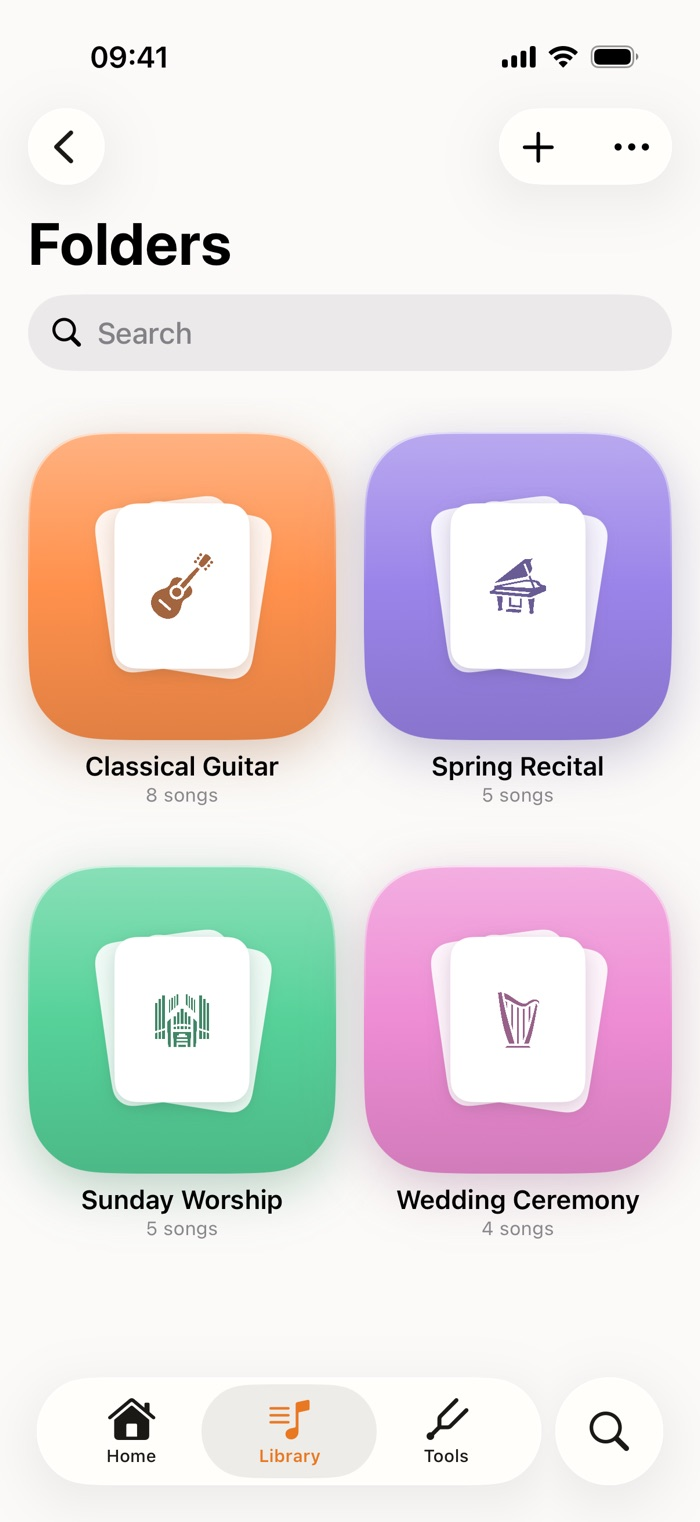
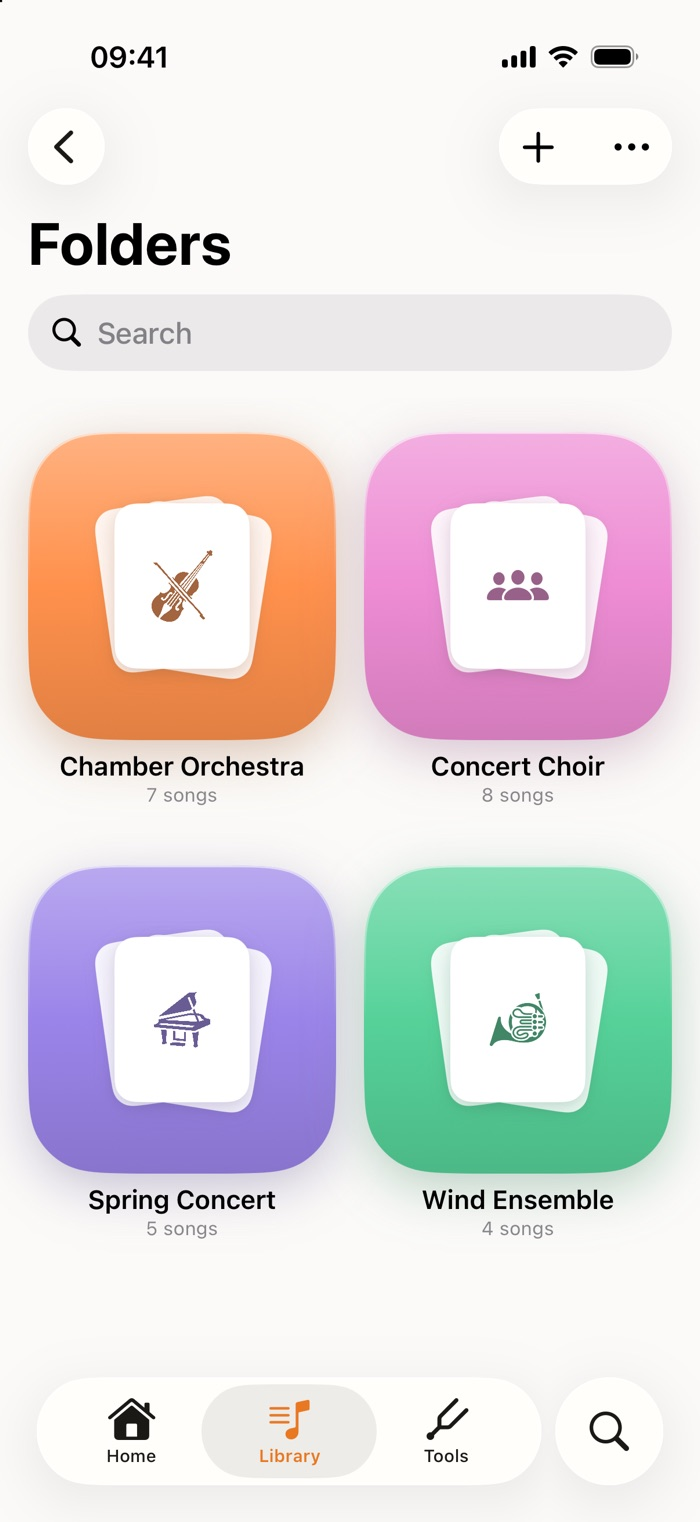
Real Folders capture for orchestras and choirs; screenshots no longer trimmed at the sides
- Orchestras & Choirs 'A library organized your way': a fresh iPhone 17 Pro capture of the
  demo library with Chamber Orchestra (violin), Concert Choir (ensemble), Spring Concert and
  Wind Ensemble folders (temporary seed; simulator data restored afterwards).
- The phone and tablet frames are a little wider than the screenshots, so object-fit trimmed
  ~2 % off each side and the content touched the bezel. The new iPhone/iPad collaboration and
  folders images use the existing .fit frames; the home stage gets a .frame .device.tablet.fit
  rule with the 11-inch screenshot's shape. site.css v53 on every page.

diff --git a/for/orchestras-choirs.html b/for/orchestras-choirs.html
@@ -121,7 +121,7 @@
   ]
 }
 </script>
-<link rel="stylesheet" href="/assets/site.css?v=52">
+<link rel="stylesheet" href="/assets/site.css?v=53">
 <link rel="stylesheet" href="/assets/pages.css?v=24">
 </head>
 <body>
@@ -223,13 +223,13 @@
       <div class="rf-visual"><div class="device phone fit"><div class="screen shot"><img src="/assets/setlist-iphone.jpg?v=1" alt="A set list called Orchestra Concert in Music Folder on iPhone: six pieces in performance order, each with composer and tempo" width="700" height="1522" loading="lazy"></div></div></div>
     </div><div class="row-feature flip">
       <div class="rf-text"><h2 class="heading-sm">A library organized <em>your way.</em></h2><p>Keep your music in folders by ensemble, season or genre. Share a folder and the whole choir has the season's repertoire, with every new piece added for everyone.</p><ul class="rf-points"><li><svg viewBox="0 0 16 16" fill="none" stroke="currentColor" stroke-width="1.9" stroke-linecap="round" stroke-linejoin="round" aria-hidden="true"><path d="M3 8.5l3 3 7-7"/></svg><span>Folders by ensemble, season or genre</span></li><li><svg viewBox="0 0 16 16" fill="none" stroke="currentColor" stroke-width="1.9" stroke-linecap="round" stroke-linejoin="round" aria-hidden="true"><path d="M3 8.5l3 3 7-7"/></svg><span>Share a folder, or send a one-time copy</span></li><li><svg viewBox="0 0 16 16" fill="none" stroke="currentColor" stroke-width="1.9" stroke-linecap="round" stroke-linejoin="round" aria-hidden="true"><path d="M3 8.5l3 3 7-7"/></svg><span>Tags and search to find any piece</span></li></ul></div>
-      <div class="rf-visual"><div class="device phone"><div class="screen shot"><img src="/assets/folders-iphone.jpg?v=1" alt="The Folders screen in Music Folder on iPhone: four folders, Classical Guitar, Spring Recital, Sunday Worship and Wedding Ceremony, each with its song count" width="700" height="1522" loading="lazy"></div></div></div>
+      <div class="rf-visual"><div class="device phone fit"><div class="screen shot"><img src="/assets/folders-iphone.jpg?v=2" alt="The Folders screen in Music Folder on iPhone: four folders, Chamber Orchestra, Concert Choir, Spring Concert and Wind Ensemble, each with its song count" width="700" height="1522" loading="lazy"></div></div></div>
     </div><div class="row-feature">
       <div class="rf-text"><h2 class="heading-sm">Mark it up like <em>pencil on paper.</em></h2><p>Circle the cut, pencil in the breath, highlight your entrance. Write with Apple Pencil or your finger and every mark saves.</p><ul class="rf-points"><li><svg viewBox="0 0 16 16" fill="none" stroke="currentColor" stroke-width="1.9" stroke-linecap="round" stroke-linejoin="round" aria-hidden="true"><path d="M3 8.5l3 3 7-7"/></svg><span>Pens, highlighters and text in several colors</span></li><li><svg viewBox="0 0 16 16" fill="none" stroke="currentColor" stroke-width="1.9" stroke-linecap="round" stroke-linejoin="round" aria-hidden="true"><path d="M3 8.5l3 3 7-7"/></svg><span>Each musician's markings stay their own</span></li><li><svg viewBox="0 0 16 16" fill="none" stroke="currentColor" stroke-width="1.9" stroke-linecap="round" stroke-linejoin="round" aria-hidden="true"><path d="M3 8.5l3 3 7-7"/></svg><span>Song notes for rehearsal reminders</span></li></ul></div>
       <div class="rf-visual"><div class="device tablet fit"><div class="screen shot"><img src="/assets/annotate-ipad.jpg?v=2" alt="A score in Music Folder on iPad, marked up with handwritten notes and highlights in several colors, with the pen palette open" width="900" height="1305" loading="lazy"></div></div></div>
     </div><div class="row-feature flip">
       <div class="rf-text"><h2 class="heading-sm">Ready for the <em>classroom.</em></h2><p>Band and choir directors share a folder with the class. Students read view-only parts at rehearsal and practice from the same music at home.</p><ul class="rf-points"><li><svg viewBox="0 0 16 16" fill="none" stroke="currentColor" stroke-width="1.9" stroke-linecap="round" stroke-linejoin="round" aria-hidden="true"><path d="M3 8.5l3 3 7-7"/></svg><span>A folder for each class, a set list for each concert</span></li><li><svg viewBox="0 0 16 16" fill="none" stroke="currentColor" stroke-width="1.9" stroke-linecap="round" stroke-linejoin="round" aria-hidden="true"><path d="M3 8.5l3 3 7-7"/></svg><span>Students on view only, staff can edit</span></li><li><svg viewBox="0 0 16 16" fill="none" stroke="currentColor" stroke-width="1.9" stroke-linecap="round" stroke-linejoin="round" aria-hidden="true"><path d="M3 8.5l3 3 7-7"/></svg><span>A tuner and metronome for home practice</span></li></ul></div>
-      <div class="rf-visual"><div class="device tablet"><div class="screen shot"><img src="/assets/collab-ensemble-ipad.jpg?v=1" alt="A shared Ensemble folder of sheet music in Music Folder on iPad, with its four participants: the owner, a co-owner, one who can edit and one who can view and download" width="900" height="1306" loading="lazy"></div></div></div>
+      <div class="rf-visual"><div class="device tablet fit"><div class="screen shot"><img src="/assets/collab-ensemble-ipad.jpg?v=1" alt="A shared Ensemble folder of sheet music in Music Folder on iPad, with its four participants: the owner, a co-owner, one who can edit and one who can view and download" width="900" height="1306" loading="lazy"></div></div></div>
     </div>
   </div>
 </section>

diff --git a/features/sharing.html b/features/sharing.html
@@ -121,7 +121,7 @@
   ]
 }
 </script>
-<link rel="stylesheet" href="/assets/site.css?v=52">
+<link rel="stylesheet" href="/assets/site.css?v=53">
 <link rel="stylesheet" href="/assets/pages.css?v=24">
 </head>
 <body>
@@ -204,7 +204,7 @@
       <p class="lede">Share a folder or a set list, choose who can edit, and every change reaches everyone’s iPhone, iPad and Mac.</p>
       <div class="cta-row"><a class="badge-link" href="https://apps.apple.com/app/id1611824311"><picture><img src="https://toolbox.marketingtools.apple.com/api/badges/download-on-the-app-store/black/en-us?size=250x83" alt="Download on the App Store" width="144" height="48"></picture></a></div>
     </div>
-    <div class="lp-visual"><div class="device tablet"><div class="screen shot"><img src="/assets/collab-ipad.jpg?v=1" alt="A shared Church Band folder in Music Folder on iPad, with its four participants: the owner, a co-owner, one who can edit and one who can view and download" width="900" height="1306" loading="lazy"></div></div></div>
+    <div class="lp-visual"><div class="device tablet fit"><div class="screen shot"><img src="/assets/collab-ipad.jpg?v=1" alt="A shared Church Band folder in Music Folder on iPad, with its four participants: the owner, a co-owner, one who can edit and one who can view and download" width="900" height="1306" loading="lazy"></div></div></div>
   </div>
 </section>
 
@@ -219,7 +219,7 @@
   <div class="wrap rows">
     <div class="row-feature">
       <div class="rf-text"><h2 class="heading-sm">You decide <em>who edits.</em></h2><p>Leaders and section leaders can edit; everyone else can view. Change anyone’s access, or remove them, whenever you need to.</p><ul class="rf-points"><li><svg viewBox="0 0 16 16" fill="none" stroke="currentColor" stroke-width="1.9" stroke-linecap="round" stroke-linejoin="round" aria-hidden="true"><path d="M3 8.5l3 3 7-7"/></svg><span>Can edit or view only, person by person</span></li><li><svg viewBox="0 0 16 16" fill="none" stroke="currentColor" stroke-width="1.9" stroke-linecap="round" stroke-linejoin="round" aria-hidden="true"><path d="M3 8.5l3 3 7-7"/></svg><span>Invite only: nothing is public</span></li><li><svg viewBox="0 0 16 16" fill="none" stroke="currentColor" stroke-width="1.9" stroke-linecap="round" stroke-linejoin="round" aria-hidden="true"><path d="M3 8.5l3 3 7-7"/></svg><span>Shared music doesn’t count toward the free limit</span></li></ul></div>
-      <div class="rf-visual"><div class="device phone"><div class="screen shot"><img src="/assets/collab-iphone.jpg?v=1" alt="The share settings for a Church Band folder in Music Folder on iPhone: the owner, a co-owner, one who can edit and one who can view and download" width="700" height="1522" loading="lazy"></div></div></div>
+      <div class="rf-visual"><div class="device phone fit"><div class="screen shot"><img src="/assets/collab-iphone.jpg?v=1" alt="The share settings for a Church Band folder in Music Folder on iPhone: the owner, a co-owner, one who can edit and one who can view and download" width="700" height="1522" loading="lazy"></div></div></div>
     </div><div class="row-feature flip">
       <div class="rf-text"><h2 class="heading-sm">Everyone keeps <em>their own markings.</em></h2><p>Shared music arrives clean. Each musician marks up their own copy with Apple Pencil, and their markings stay theirs.</p><ul class="rf-points"><li><svg viewBox="0 0 16 16" fill="none" stroke="currentColor" stroke-width="1.9" stroke-linecap="round" stroke-linejoin="round" aria-hidden="true"><path d="M3 8.5l3 3 7-7"/></svg><span>Fingerings and cues that suit each player</span></li><li><svg viewBox="0 0 16 16" fill="none" stroke="currentColor" stroke-width="1.9" stroke-linecap="round" stroke-linejoin="round" aria-hidden="true"><path d="M3 8.5l3 3 7-7"/></svg><span>No one’s markings overwrite anyone else’s</span></li><li><svg viewBox="0 0 16 16" fill="none" stroke="currentColor" stroke-width="1.9" stroke-linecap="round" stroke-linejoin="round" aria-hidden="true"><path d="M3 8.5l3 3 7-7"/></svg><span>Song notes stay private too</span></li></ul></div>
       <div class="rf-visual"><div class="device tablet fit"><div class="screen shot"><img src="/assets/annotate-ipad.jpg?v=2" alt="A score in Music Folder on iPad, marked up with handwritten notes and highlights in several colors" width="900" height="1305" loading="lazy"></div></div></div>

diff --git a/for/worship-teams.html b/for/worship-teams.html
@@ -129,7 +129,7 @@
   ]
 }
 </script>
-<link rel="stylesheet" href="/assets/site.css?v=52">
+<link rel="stylesheet" href="/assets/site.css?v=53">
 <link rel="stylesheet" href="/assets/pages.css?v=24">
 </head>
 <body>
@@ -228,7 +228,7 @@
   <div class="wrap rows">
     <div class="row-feature">
       <div class="rf-text"><h2 class="heading-sm">Sunday’s set, <em>shared.</em></h2><p>Share a set list or a folder of charts with your musicians and singers. You choose who can edit, and every change reaches the whole team.</p><ul class="rf-points"><li><svg viewBox="0 0 16 16" fill="none" stroke="currentColor" stroke-width="1.9" stroke-linecap="round" stroke-linejoin="round" aria-hidden="true"><path d="M3 8.5l3 3 7-7"/></svg><span>Live sharing with everyone who uses Music Folder</span></li><li><svg viewBox="0 0 16 16" fill="none" stroke="currentColor" stroke-width="1.9" stroke-linecap="round" stroke-linejoin="round" aria-hidden="true"><path d="M3 8.5l3 3 7-7"/></svg><span>Choose who can edit and who can only view</span></li><li><svg viewBox="0 0 16 16" fill="none" stroke="currentColor" stroke-width="1.9" stroke-linecap="round" stroke-linejoin="round" aria-hidden="true"><path d="M3 8.5l3 3 7-7"/></svg><span>Mark up your own copy with Apple Pencil</span></li></ul></div>
-      <div class="rf-visual"><div class="device tablet"><div class="screen shot"><img src="/assets/collab-ipad.jpg?v=1" alt="A shared Church Band folder in Music Folder on iPad, with its four participants: the owner, a co-owner, one who can edit and one who can view and download" width="900" height="1306" loading="lazy"></div></div></div>
+      <div class="rf-visual"><div class="device tablet fit"><div class="screen shot"><img src="/assets/collab-ipad.jpg?v=1" alt="A shared Church Band folder in Music Folder on iPad, with its four participants: the owner, a co-owner, one who can edit and one who can view and download" width="900" height="1306" loading="lazy"></div></div></div>
     </div><div class="row-feature flip">
       <div class="rf-text"><h2 class="heading-sm">Come <em>prepared.</em></h2><p>Attach a recording to every song, from your music library or a file, and play it right beside the chart. Musicians learn how it goes before rehearsal, and the drummer counts in at the song’s tempo.</p><ul class="rf-points"><li><svg viewBox="0 0 16 16" fill="none" stroke="currentColor" stroke-width="1.9" stroke-linecap="round" stroke-linejoin="round" aria-hidden="true"><path d="M3 8.5l3 3 7-7"/></svg><span>A reference recording on every song</span></li><li><svg viewBox="0 0 16 16" fill="none" stroke="currentColor" stroke-width="1.9" stroke-linecap="round" stroke-linejoin="round" aria-hidden="true"><path d="M3 8.5l3 3 7-7"/></svg><span>A metronome set to each song’s tempo</span></li><li><svg viewBox="0 0 16 16" fill="none" stroke="currentColor" stroke-width="1.9" stroke-linecap="round" stroke-linejoin="round" aria-hidden="true"><path d="M3 8.5l3 3 7-7"/></svg><span>Tuner, drones and piano one tap away</span></li></ul></div>
       <div class="rf-visual"><div class="device phone fit"><div class="screen shot"><img src="/assets/recording-iphone.jpg?v=1" alt="A chord chart for Come Thou Fount open in Music Folder on iPhone, with the song's reference recording playing in the bar above the chart" width="700" height="1522" loading="lazy"></div></div></div>

diff --git a/for/bands.html b/for/bands.html
@@ -121,7 +121,7 @@
   ]
 }
 </script>
-<link rel="stylesheet" href="/assets/site.css?v=52">
+<link rel="stylesheet" href="/assets/site.css?v=53">
 <link rel="stylesheet" href="/assets/pages.css?v=24">
 </head>
 <body>
@@ -220,7 +220,7 @@
   <div class="wrap rows">
     <div class="row-feature">
       <div class="rf-text"><h2 class="heading-sm">Everyone on the <em>same page.</em></h2><p>Share the set with the band. Swap a song or change the order and everyone's copy updates before soundcheck.</p><ul class="rf-points"><li><svg viewBox="0 0 16 16" fill="none" stroke="currentColor" stroke-width="1.9" stroke-linecap="round" stroke-linejoin="round" aria-hidden="true"><path d="M3 8.5l3 3 7-7"/></svg><span>Live sharing with everyone who uses Music Folder</span></li><li><svg viewBox="0 0 16 16" fill="none" stroke="currentColor" stroke-width="1.9" stroke-linecap="round" stroke-linejoin="round" aria-hidden="true"><path d="M3 8.5l3 3 7-7"/></svg><span>Choose who can edit and who can only view</span></li><li><svg viewBox="0 0 16 16" fill="none" stroke="currentColor" stroke-width="1.9" stroke-linecap="round" stroke-linejoin="round" aria-hidden="true"><path d="M3 8.5l3 3 7-7"/></svg><span>Or send a one-time copy through AirDrop, Messages or email</span></li></ul></div>
-      <div class="rf-visual"><div class="device tablet"><div class="screen shot"><img src="/assets/collab-ipad.jpg?v=1" alt="A shared Church Band folder in Music Folder on iPad, with its four participants: the owner, a co-owner, one who can edit and one who can view and download" width="900" height="1306" loading="lazy"></div></div></div>
+      <div class="rf-visual"><div class="device tablet fit"><div class="screen shot"><img src="/assets/collab-ipad.jpg?v=1" alt="A shared Church Band folder in Music Folder on iPad, with its four participants: the owner, a co-owner, one who can edit and one who can view and download" width="900" height="1306" loading="lazy"></div></div></div>
     </div><div class="row-feature flip">
       <div class="rf-text"><h2 class="heading-sm">Ready when the lights <em>go down.</em></h2><p>Your music lives on your device, so the set plays with no signal at the venue. Your iPhone, iPad and Mac stay in step through iCloud.</p><ul class="rf-points"><li><svg viewBox="0 0 16 16" fill="none" stroke="currentColor" stroke-width="1.9" stroke-linecap="round" stroke-linejoin="round" aria-hidden="true"><path d="M3 8.5l3 3 7-7"/></svg><span>Works completely offline</span></li><li><svg viewBox="0 0 16 16" fill="none" stroke="currentColor" stroke-width="1.9" stroke-linecap="round" stroke-linejoin="round" aria-hidden="true"><path d="M3 8.5l3 3 7-7"/></svg><span>Free iCloud sync across iPhone, iPad and Mac</span></li><li><svg viewBox="0 0 16 16" fill="none" stroke="currentColor" stroke-width="1.9" stroke-linecap="round" stroke-linejoin="round" aria-hidden="true"><path d="M3 8.5l3 3 7-7"/></svg><span>Song notes for cues and reminders beside the score</span></li></ul></div>
       <div class="rf-visual"><div class="device phone fit"><div class="screen shot"><img src="/assets/library-screen.jpg?v=2" alt="The Music Folder Library screen on iPhone: Songs, Folders and Set Lists, tags, and recently played scores" width="700" height="1538" loading="lazy"></div></div></div>

diff --git a/index.html b/index.html
@@ -51,7 +51,7 @@
 }
 </script>
 
-<link rel="stylesheet" href="assets/site.css?v=52">
+<link rel="stylesheet" href="assets/site.css?v=53">
 </head>
 <body>
 <svg class="defs" aria-hidden="true" focusable="false"><defs>
@@ -264,7 +264,7 @@
         <article class="step" data-step="4" id="teams">
           <h3>Work together as a team.</h3>
           <p>Share a folder or set list with your band, class, choir or worship team. Changes show up for everyone, and you choose who can edit.</p>
-          <div class="step-visual"><div class="device tablet"><div class="screen shot"><img src="/assets/collab-ipad.jpg?v=1" alt="A shared Church Band folder in Music Folder on iPad, with its four participants: the owner, a co-owner, one who can edit and one who can view and download" width="900" height="1306" loading="lazy"></div></div></div>
+          <div class="step-visual"><div class="device tablet fit"><div class="screen shot"><img src="/assets/collab-ipad.jpg?v=1" alt="A shared Church Band folder in Music Folder on iPad, with its four participants: the owner, a co-owner, one who can edit and one who can view and download" width="900" height="1306" loading="lazy"></div></div></div>
         </article>
       </div>
       <div class="story-stage" aria-hidden="true">
@@ -273,7 +273,7 @@
           <div class="frame" data-step="1"><div class="device phone"><div class="screen shot"><img src="assets/setlist-iphone.jpg?v=1" alt="" width="700" height="1522" loading="lazy"></div></div></div>
           <div class="frame" data-step="2"><div class="device tablet"><div class="screen shot"><img src="assets/annotate-ipad.jpg?v=2" alt="" width="900" height="1305" loading="lazy"></div><svg class="pencil" viewBox="0 0 380 22" aria-hidden="true" focusable="false"><defs><linearGradient id="pcBody" x1="0" y1="0" x2="0" y2="1"><stop offset="0" stop-color="#FFFFFF"/><stop offset=".38" stop-color="#F7F7F5"/><stop offset=".8" stop-color="#DEDEDA"/><stop offset="1" stop-color="#C9C9C5"/></linearGradient><linearGradient id="pcTip" x1="0" y1="0" x2="0" y2="1"><stop offset="0" stop-color="#FAFAF8"/><stop offset="1" stop-color="#CFCFCB"/></linearGradient></defs><path d="M34 1H369a10 10 0 0 1 0 20H34Z" fill="url(#pcBody)"/><path d="M34 4.2H369" stroke="#fff" stroke-width="1.6" opacity=".9"/><path d="M34 15.6H372" stroke="#000" stroke-opacity=".05" stroke-width="1"/><path d="M34 1L7 9.2v3.6L34 21Z" fill="url(#pcTip)"/><path d="M8.2 8.8L1 10.4a.7.7 0 0 0 0 1.2L8.2 13.2Z" fill="#8E8E8A"/><path d="M34 1v20" stroke="#000" stroke-opacity=".06"/></svg></div></div>
           <div class="frame" data-step="3"><div class="device phone"><div class="screen shot"><img src="assets/planning-center-iphone.jpg?v=1" alt="" width="700" height="1522" loading="lazy"></div></div></div>
-          <div class="frame" data-step="4"><div class="device tablet"><div class="screen shot"><img src="/assets/collab-ipad.jpg?v=1" alt="" width="900" height="1306" loading="lazy"></div></div></div>
+          <div class="frame" data-step="4"><div class="device tablet fit"><div class="screen shot"><img src="/assets/collab-ipad.jpg?v=1" alt="" width="900" height="1306" loading="lazy"></div></div></div>
         </div>
       </div>
     </div>

diff --git a/features/set-lists.html b/features/set-lists.html
@@ -121,7 +121,7 @@
   ]
 }
 </script>
-<link rel="stylesheet" href="/assets/site.css?v=52">
+<link rel="stylesheet" href="/assets/site.css?v=53">
 <link rel="stylesheet" href="/assets/pages.css?v=24">
 </head>
 <body>
@@ -225,7 +225,7 @@
       <div class="rf-visual"><div class="set-card"><div class="sc-title">Sunday, 9:00</div><div class="sc-sub">Set list · songs and book bookmarks</div><ol><li><span>1</span><span>Come Thou Fount</span><span>Hymnal · p. 112</span></li><li><span>2</span><span>Be Thou My Vision</span><span>Hymnal · p. 87</span></li><li><span>3</span><span>Amazing Grace</span><span>♩=72</span></li><li><span>4</span><span>It Is Well with My Soul</span><span>Hymnal · pp. 210–211</span></li><li><span>5</span><span>Doxology</span><span>♩=92</span></li></ol></div></div>
     </div><div class="row-feature">
       <div class="rf-text"><h2 class="heading-sm">Everyone on the <em>same page.</em></h2><p>Share the set with your band or team. Swap a song or change the order, and everyone’s copy updates.</p><ul class="rf-points"><li><svg viewBox="0 0 16 16" fill="none" stroke="currentColor" stroke-width="1.9" stroke-linecap="round" stroke-linejoin="round" aria-hidden="true"><path d="M3 8.5l3 3 7-7"/></svg><span>Choose who can edit and who can only view</span></li><li><svg viewBox="0 0 16 16" fill="none" stroke="currentColor" stroke-width="1.9" stroke-linecap="round" stroke-linejoin="round" aria-hidden="true"><path d="M3 8.5l3 3 7-7"/></svg><span>Send it as one PDF, markings included</span></li><li><svg viewBox="0 0 16 16" fill="none" stroke="currentColor" stroke-width="1.9" stroke-linecap="round" stroke-linejoin="round" aria-hidden="true"><path d="M3 8.5l3 3 7-7"/></svg><span>Or send a copy for others to import</span></li></ul><p class="rf-more"><a href="/features/sharing">How sharing works</a></p></div>
-      <div class="rf-visual"><div class="device tablet"><div class="screen shot"><img src="/assets/collab-ipad.jpg?v=1" alt="A shared Church Band folder in Music Folder on iPad, with its four participants: the owner, a co-owner, one who can edit and one who can view and download" width="900" height="1306" loading="lazy"></div></div></div>
+      <div class="rf-visual"><div class="device tablet fit"><div class="screen shot"><img src="/assets/collab-ipad.jpg?v=1" alt="A shared Church Band folder in Music Folder on iPad, with its four participants: the owner, a co-owner, one who can edit and one who can view and download" width="900" height="1306" loading="lazy"></div></div></div>
     </div>
   </div>
 </section>

diff --git a/assets/site.css b/assets/site.css
@@ -599,6 +599,10 @@ section { position: relative; }
 /* a full-screen screenshot sets the frame's shape instead of being cropped */
 .device.fit { aspect-ratio: auto; }
 .device.fit .screen, .device.fit .screen img { height: auto; display: block; }
+/* in the pinned stage the frame's height is fixed, so an iPad screenshot's frame takes its shape
+   (11-inch screen + the 14px bezel) instead of trimming the sides */
+.frame .device.tablet.fit { aspect-ratio: 0.703; }
+.frame .device.tablet.fit .screen, .frame .device.tablet.fit .screen img { height: 100%; }
 
 
 /* Share card */

diff --git a/privacy.html b/privacy.html
@@ -33,7 +33,7 @@
 <link rel="preconnect" href="https://fonts.googleapis.com">
 <link rel="preconnect" href="https://fonts.gstatic.com" crossorigin>
 <link href="https://fonts.googleapis.com/css2?family=Instrument+Serif:ital@0;1&family=Inter:wght@400;500;600&display=swap" rel="stylesheet">
-<link rel="stylesheet" href="assets/site.css?v=52">
+<link rel="stylesheet" href="assets/site.css?v=53">
 <style>
 .policy { padding: 160px 0 120px; }
 @media (max-width: 860px) { .policy { padding: 112px 0 80px; } }

diff --git a/contact.html b/contact.html
@@ -33,7 +33,7 @@
 <link rel="preconnect" href="https://fonts.googleapis.com">
 <link rel="preconnect" href="https://fonts.gstatic.com" crossorigin>
 <link href="https://fonts.googleapis.com/css2?family=Instrument+Serif:ital@0;1&family=Inter:wght@400;500;600&display=swap" rel="stylesheet">
-<link rel="stylesheet" href="assets/site.css?v=52">
+<link rel="stylesheet" href="assets/site.css?v=53">
 <style>
 /* ---------- Support page ---------- */
 .support-hero { padding: 160px 0 72px; }

diff --git a/support.html b/support.html
@@ -33,7 +33,7 @@
 <link rel="preconnect" href="https://fonts.googleapis.com">
 <link rel="preconnect" href="https://fonts.gstatic.com" crossorigin>
 <link href="https://fonts.googleapis.com/css2?family=Instrument+Serif:ital@0;1&family=Inter:wght@400;500;600&display=swap" rel="stylesheet">
-<link rel="stylesheet" href="assets/site.css?v=52">
+<link rel="stylesheet" href="assets/site.css?v=53">
 <style>
 /* ---------- Support page ---------- */
 .support-hero { padding: 160px 0 72px; }

diff --git a/404.html b/404.html
@@ -14,7 +14,7 @@
 <link rel="preconnect" href="https://fonts.googleapis.com">
 <link rel="preconnect" href="https://fonts.gstatic.com" crossorigin>
 <link href="https://fonts.googleapis.com/css2?family=Instrument+Serif:ital@0;1&family=Inter:wght@400;500;600&display=swap" rel="stylesheet">
-<link rel="stylesheet" href="/assets/site.css?v=52">
+<link rel="stylesheet" href="/assets/site.css?v=53">
 <link rel="stylesheet" href="/assets/pages.css?v=24">
 </head>
 <body>

diff --git a/features/annotation.html b/features/annotation.html
@@ -121,7 +121,7 @@
   ]
 }
 </script>
-<link rel="stylesheet" href="/assets/site.css?v=52">
+<link rel="stylesheet" href="/assets/site.css?v=53">
 <link rel="stylesheet" href="/assets/pages.css?v=24">
 </head>
 <body>
